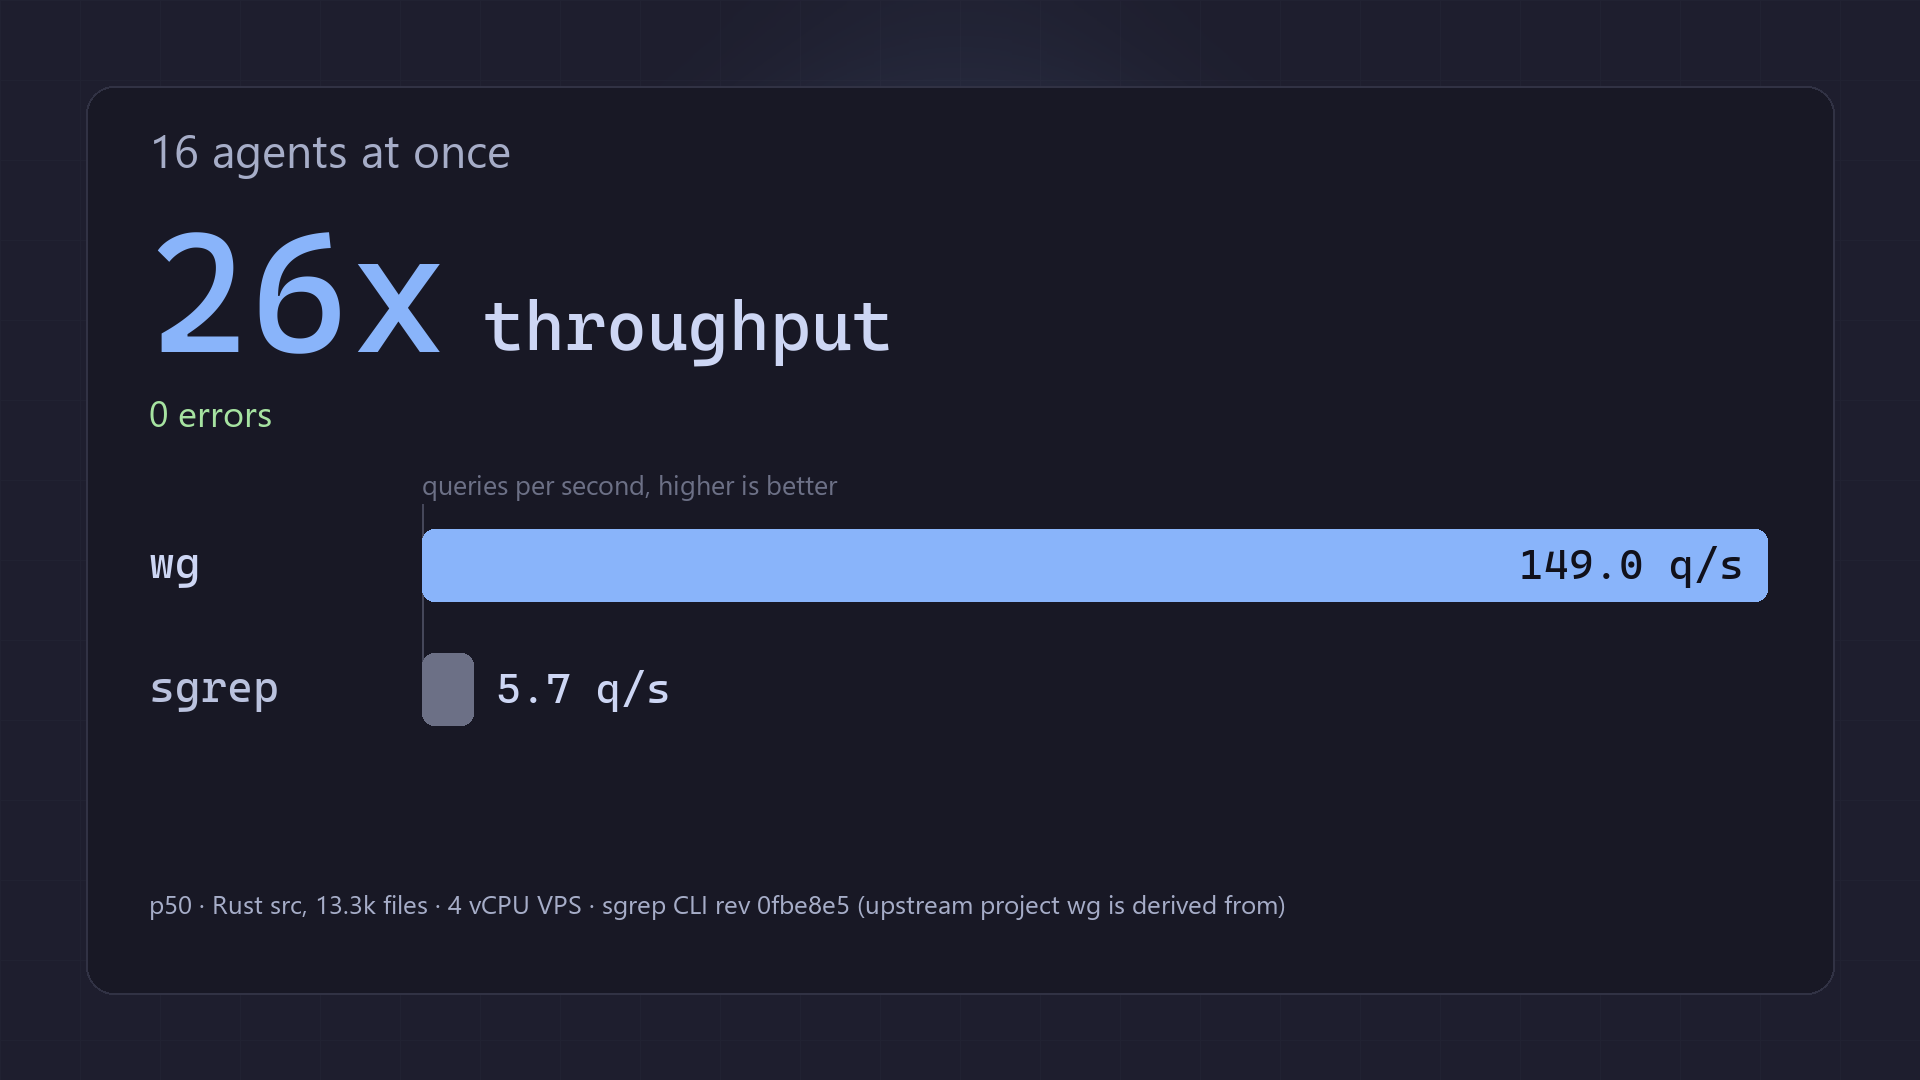
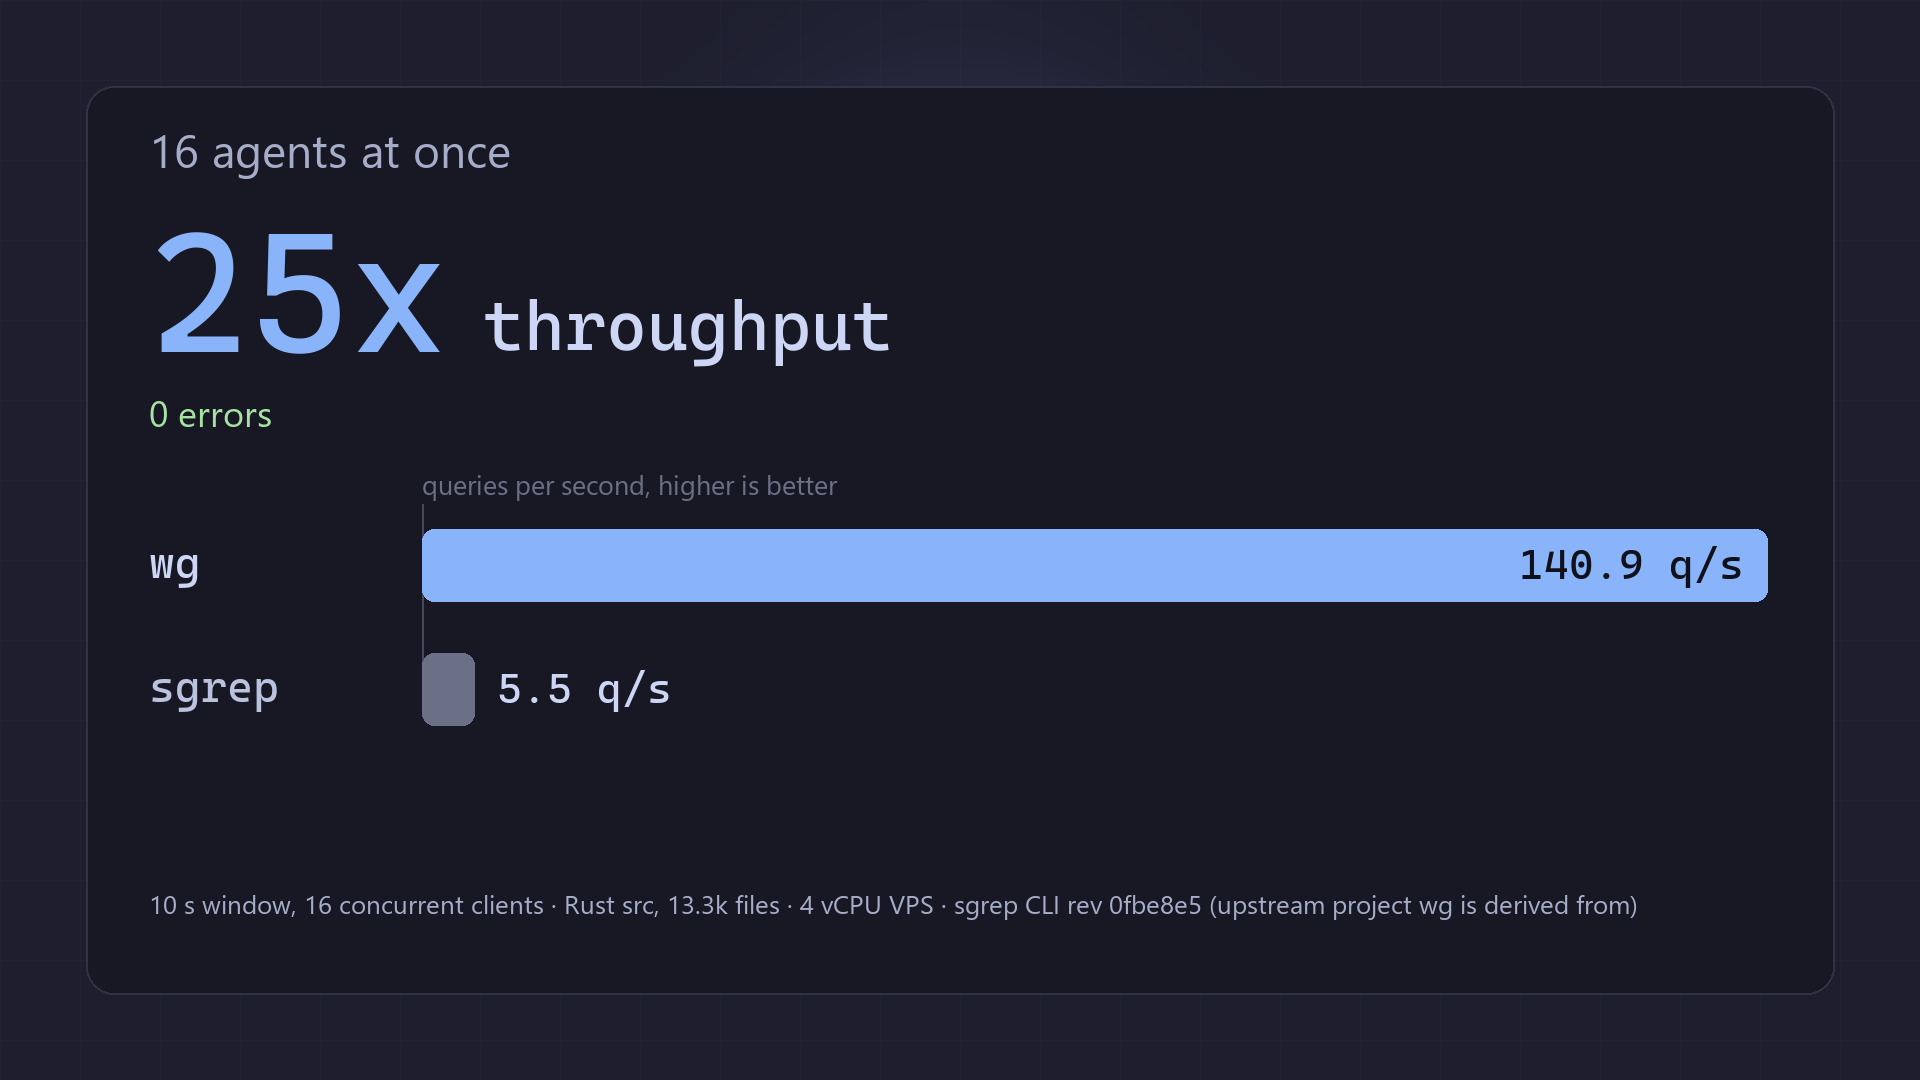
Launch kit: phase E numbers in README, notes and charts
README and docs/launch now carry the phase E results (c61b36d). The
memory limit states the count-specific result: five roots favor wg
(902.9 vs 1,034.1 MiB), one and three roots still favor sgrep.

Charts regenerated from bench/WG_LAUNCH_BENCH_RESULTS.json. Two label
fixes: the text chart headline now uses the rare-identifier ratio
(10.6x) to match "faster on rare terms" (it used the absent-literal
ratio, also in phase D), and the fan-out chart footnote states its
10 s / 16-client method instead of "p50".

The rg-flags and hero clips still show phase D captions; they need a
re-render on the VPS.

Changed region(s): [[0.0625, 0.825, 0.8438, 0.8556], [0.125, 0.2139, 0.1562, 0.3056], [0.2812, 0.6111, 0.3438, 0.6417]]

diff --git a/docs/launch/make_charts.py b/docs/launch/make_charts.py
@@ -35,6 +35,10 @@ FOOTNOTE = (
     "sgrep CLI rev 0fbe8e5 (upstream project wg is derived from)"
 )
 FRESHNESS_EXTRA = "sgrep has no watcher; it rebuilds the index"
+FANOUT_FOOTNOTE = (
+    "10 s window, 16 concurrent clients \u00b7 Rust src, 13.3k files \u00b7 "
+    "4 vCPU VPS \u00b7 sgrep CLI rev 0fbe8e5 (upstream project wg is derived from)"
+)
 TEXT_FOOTNOTE = (
     "rg 15.1 with default threads; wg uses its built-in ripgrep 15.1 plus a "
     "trigram index; 13.3k-file Rust src; 4 vCPU VPS"
@@ -105,6 +109,8 @@ def make_chart(
     margin = int(width * 0.045)
     panel(draw, width, height, margin)
 
+    footnote = spec.get("footnote", FOOTNOTE)
+
     for text in (
         spec["title"],
         spec["headline_number"],
@@ -114,7 +120,7 @@ def make_chart(
         spec["sgrep_label"],
         spec.get("direction", ""),
         spec.get("extra", ""),
-        FOOTNOTE,
+        footnote,
     ):
         assert_clean(text)
 
@@ -199,7 +205,7 @@ def make_chart(
             draw.text((pad_x, y), line, font=extra_font, fill=MOCHA["peach"])
             y += extra_font.size + 6
 
-    foot_lines = wrap_text(draw, FOOTNOTE, foot_font, width - 2 * pad_x)
+    foot_lines = wrap_text(draw, footnote, foot_font, width - 2 * pad_x)
     y = max(y, foot_y)
     for line in foot_lines:
         draw.text((pad_x, y), line, font=foot_font, fill=MOCHA["subtext0"])
@@ -351,7 +357,7 @@ def build_specs(results: dict) -> list[dict]:
                 "rg_label": f"{results[f'{key}_rg_p50_ms']:.1f} ms",
             }
         )
-    text_ratio = results["text_absent_literal_rg_p50_ms"] / results["text_absent_literal_wg_p50_ms"]
+    text_ratio = results["text_rare_identifier_rg_p50_ms"] / results["text_rare_identifier_wg_p50_ms"]
 
     return [
         {
@@ -392,6 +398,7 @@ def build_specs(results: dict) -> list[dict]:
             "wg_label": f"{fanout_wg:.1f} q/s",
             "sgrep_label": f"{fanout_sgrep:.1f} q/s",
             "direction": "queries per second, higher is better",
+            "footnote": FANOUT_FOOTNOTE,
         },
         {
             "name": "04-text-vs-ripgrep",

diff --git a/docs/launch/README.md b/docs/launch/README.md
@@ -18,8 +18,13 @@ The `wg` crate is at the repository root.
 - Render run: `/srv/projects/wispd/m/20261022-043511`
 - Logs: `/srv/logs/wispd/wg-launch-media-20261022-043511/`
 - Final assets are in `media/`, `charts/`, and `cards/`.
+- The charts are regenerated from the Phase E results JSON. The checked-in
+  rg-flags clip and the 16:9 hero still show Phase D chart and caption values.
+  Re-render both before release. The hook, live, and multi-repo clips and the
+  README GIFs show no stale benchmark number.
 - `E:\wg-launch-media\review\` has the eight chart PNGs and full-size final
-  frames for the four 16:9 clips and the 16:9 hero.
+  frames for the four 16:9 clips and the 16:9 hero. The Phase E charts are in
+  `E:\wg-launch-media\review\phaseE-charts\`.
 
 ## Corpus
 
@@ -108,7 +113,7 @@ Burned-in captions:
 - Hook: `rg: <count> files mention it. wg: the exact spot.` `<count>` is the
   real `rg` count on the render corpus (184 in this run).
 - Live edit: `New function. Next query finds it. No restart.`
-- rg flags: `Built-in rg 15.1 + trigram index. 10.7x faster on rare terms.
+- rg flags: `Built-in rg 15.1 + trigram index. 10.6x faster on rare terms.
   Same bytes.`
 - Two repositories: `One daemon. Two repositories.`
 
@@ -196,7 +201,7 @@ was tested and dropped: top-1 was a clippy duration test, not the new function.
 The rg-flags clip uses `export P=zzqxjwvbnm_wg_text_absent_zzz`, one visible
 `wg -F $P .` warmup, then `time rg -F $P .` and `time wg -F $P .`. It ends with
 `wg --no-heading -n -F "struct Flags" .` and real output. The caption uses the
-benchmark p50 ratio from the JSON (10.7x on the absent-literal case). The
+benchmark p50 ratio from the JSON (10.6x on the rare-identifier case). The
 visible one-shot times vary; the warmup makes the timed `wg` query warm.
 
 All four tapes are 16:9. They use font size 43, except the multi-repo clip at
@@ -224,13 +229,13 @@ chart cards at 1920x1080 and 1080x1080:
 
 Values from the results JSON:
 
-- Edit to searchable: `90.6 ms` vs `20,092 ms`, `222x faster`.
-- Warm query: `23.2 ms` vs `502.3 ms` p50, `21.7x faster`,
+- Edit to searchable: `99.2 ms` vs `21,806 ms` (21.8 s), `220x faster`.
+- Warm query: `25.2 ms` vs `565.7 ms` p50, `22.4x faster`,
   `identical top-10 results (5/5 queries)`.
-- 16 agents: `149.0 q/s` vs `5.7 q/s`, `26x throughput`, `0 errors`.
-- Text search: absent `4.9 ms` vs `52.4 ms`, rare `5.2` vs `52.5`,
-  common `41.8` vs `67.9`, broad `96.6` vs `110.8`,
-  case-insensitive `31.7` vs `62.4`; `10.7x faster on rare terms`,
+- 16 agents: `140.9 q/s` vs `5.5 q/s`, `25x throughput`, `0 errors`.
+- Text search: absent `5.4 ms` vs `63.2 ms`, rare `6.0` vs `63.8`,
+  common `50.0` vs `83.7`, broad `111.5` vs `136.1`,
+  case-insensitive `37.5` vs `75.7`; `10.6x faster on rare terms`,
   `byte-identical output`.
 
 The 16:9 hero uses `charts/*-1920x1080.png` as full-frame 3 s segments.
@@ -243,8 +248,10 @@ python3 docs/launch/make_charts.py
 
 The script fails if a label contains mojibake characters.
 
-The sgrep charts carry the caveat:
-`p50 | Rust src, 13.3k files | 4 vCPU VPS | sgrep CLI rev 0fbe8e5 (upstream project wg is derived from)`.
+The p50 charts (01 and 02) carry the caveat:
+`p50 · Rust src, 13.3k files · 4 vCPU VPS · sgrep CLI rev 0fbe8e5 (upstream project wg is derived from)`.
+The fan-out chart (03) carries:
+`10 s window, 16 concurrent clients · Rust src, 13.3k files · 4 vCPU VPS · sgrep CLI rev 0fbe8e5 (upstream project wg is derived from)`.
 The edit chart also says `sgrep has no watcher; it rebuilds the index`.
 
 The text chart carries:
@@ -267,7 +274,10 @@ square charts.
   built-in ripgrep 15.1 and trigram index. External rg 15.1 is used only for
   the comparison and the keyword count.
 - The charts use the single final benchmark campaign. No memory chart is
-  included because M4 does not favor wg.
+  included. At five attached 13.3k-file roots, one `wg` daemon uses 902.9 MiB
+  against 1,034.1 MiB for five warm sgrep processes (12.7% less). This is not
+  general: at one root `wg` uses 1.13x more, and at three roots 1.21x more. The
+  sgrep value is the sum of live processes, not a resident server.
 - The rg-flags clip uses one-shot shell `time`; the caption uses the benchmark
   p50 ratio from the JSON. The visible times can differ from the p50.
 - The live-edit clip uses exact text search for the freshness proof. The

diff --git a/README.md b/README.md
@@ -140,11 +140,11 @@ The gain is largest for rare or absent terms. On the 13,332-file Rust corpus:
 
 | Case | `wg` p50 | `rg` 15.1 p50 | Speed |
 | --- | ---: | ---: | ---: |
-| Absent literal | 4.9 ms | 52.4 ms | 10.7x |
-| Rare identifier | 5.2 ms | 52.5 ms | 10.1x |
-| Common identifier | 41.8 ms | 67.9 ms | 1.6x |
-| Broad regex | 96.6 ms | 110.8 ms | 1.1x |
-| Case-insensitive | 31.7 ms | 62.4 ms | 2.0x |
+| Absent literal | 5.4 ms | 63.2 ms | 11.7x |
+| Rare identifier | 6.0 ms | 63.8 ms | 10.6x |
+| Common identifier | 50.0 ms | 83.7 ms | 1.7x |
+| Broad regex | 111.5 ms | 136.1 ms | 1.2x |
+| Case-insensitive | 37.5 ms | 75.7 ms | 2.0x |
 
 All five cases were byte-identical to `rg` under `--sort path`. Common, broad,
 and case-insensitive cases still scan much of the tree. The index removes only
@@ -204,11 +204,11 @@ normally.
 
 The ranker is sgrep-compatible. On the launch corpus, warm top-10 rows and
 scores were identical to pinned sgrep on 5 of 5 queries. Warm semantic latency
-was 23.2 ms p50 for `wg` and 502.3 ms p50 for the sgrep CLI, 21.7x faster. This
+was 25.2 ms p50 for `wg` and 565.7 ms p50 for the sgrep CLI, 22.4x faster. This
 was a five-query mixture on one machine. The sgrep CLI pays process start and
 asset load on each call.
 
-With 16 concurrent clients, `wg` reached 149.0 queries/s against 5.7 for sgrep,
+With 16 concurrent clients, `wg` reached 140.9 queries/s against 5.5 for sgrep,
 with zero errors. The test used 10-second windows on 4 shared vCPU.
 
 ## One daemon, many roots
@@ -233,17 +233,17 @@ come from one campaign on a Debian 13 VPS with 4 vCPU, 7.8 GiB RAM, and no swap:
 
 | Tree | Files | `wg up` | Peak RSS | Steady RSS |
 | --- | ---: | ---: | ---: | ---: |
-| Rust `src` | 13,332 | 18.1 s | 634.9 MiB | 359.4 MiB |
-| Linux 7.2.9 | 94,318 | 592.3 s (9m 52s) | 3,905.7 MiB | 3,387.7 MiB |
+| Rust `src` | 13,332 | 18.4 s | 386.2 MiB | 212.7 MiB |
+| Linux 7.2.9 | 94,318 | 561.4 s (9m 21s) | 2,774.1 MiB | 2,040.5 MiB |
 
 The Linux tree now reaches ready on this 7.8 GiB machine. An earlier campaign
 was OOM-killed on the same tree. The build is CPU bound. The text index build is
-separate: 1.48 s for the Rust tree and 28.2 s for the Linux tree. The text index
+separate: 1.61 s for the Rust tree and 27.9 s for the Linux tree. The text index
 uses 20.4 MB on disk for the Rust tree and 247.0 MB for the Linux tree.
 
 These are single runs, not percentiles over many machines. Do not read them as a
 guarantee. A warm semantic query can raise RSS until the kernel reclaims mapped
-vector pages.
+vector and chunk-text pages.
 
 ## Status and stop
 
@@ -301,12 +301,15 @@ Current Windows performance has not been measured with the launch harness.
 - Semantic results are ranked, not exhaustive.
 - The text index only removes impossible files. Common terms still scan much of
   the tree.
-- Memory does not favor `wg` for many roots. Five attached 13.3k-file roots
-  used 1,447.5 MiB RSS, against 1,192.0 MiB for five warm sgrep processes. `wg`
-  uses 1.21x more memory. The sgrep number is the sum of live processes, not a
-  resident server. One shared model is true, but per-root index memory still
-  dominates.
-- A kernel-size tree takes about 10 minutes to attach on a 4-vCPU VPS with
+- Memory favors `wg` only at five roots, and the margin is small. Five attached
+  13.3k-file roots used 902.9 MiB RSS, against 1,034.1 MiB for five warm sgrep
+  processes: 12.7% less. This is not a general multi-repo win. At one root `wg`
+  used 282.6 MiB against 249.2 MiB (1.13x more); at three roots 606.9 MiB
+  against 499.8 MiB (1.21x more). `wg` stays below the sgrep per-process peak
+  sum at three and five roots. The sgrep number is the sum of live processes,
+  not a resident server. Mapped vector and chunk-text pages count in RSS after a
+  query touches them, until the kernel reclaims them.
+- A kernel-size tree takes about 9.5 minutes to attach on a 4-vCPU VPS with
   7.8 GiB RAM.
 - One daemon holds up to 32 attached roots.
 - The semantic route needs the model assets. The text route does not need the
